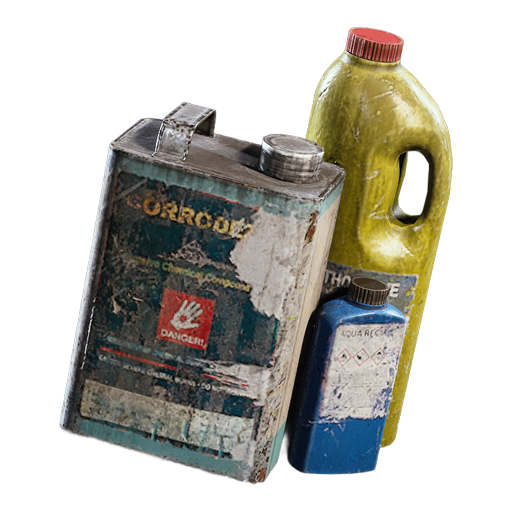
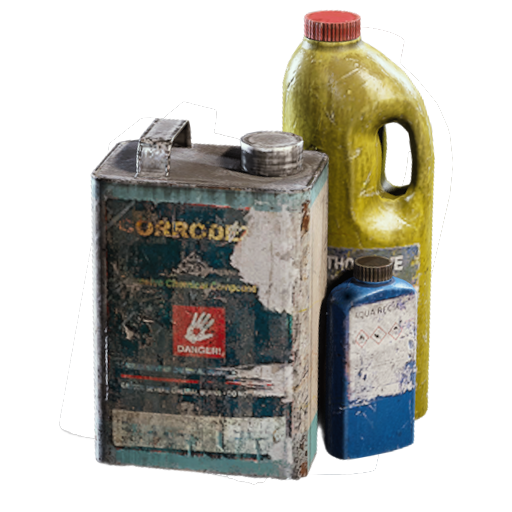
Slight page restructuring, add redo button, edit some item images, add some missing recipes.

diff --git a/templates/index.html b/templates/index.html
@@ -570,8 +570,8 @@
 </head>
 <body>
     <div class="container">
-        <h1>🛠 Arc Raiders Recipe Calculator</h1>
-        <p class="subtitle">Select items to see the base resources needed to craft them</p>
+        <h1>Arc Raiders Recipe Calculator</h1>
+        <!-- <p class="subtitle">Select items to see the base resources needed to craft them</p> -->
 
         <div class="main-content">
             <!-- Item Selection Panel -->
@@ -613,14 +613,15 @@
 
             <!-- Required Resources Panel -->
             <div class="panel" id="resultsPanel">
-                <div class="panel-header">
-                    <h2>Required Resources</h2>
-                    <div style="display: flex; gap: 10px; align-items: center;">
-                        <label class="auto-break-checkbox">
-                            <input type="checkbox" id="autoBreakCheckbox" onchange="toggleAutoBreak()">
-                            <span>Automatically break down all</span>
-                        </label>
+                <h2>Required Resources</h2>
+                <div style="display: flex; gap: 10px; align-items: center; margin-bottom: 15px; justify-content: space-between;">
+                    <label class="auto-break-checkbox">
+                        <input type="checkbox" id="autoBreakCheckbox" onchange="toggleAutoBreak()">
+                        <span>Automatically break down all</span>
+                    </label>
+                    <div style="display: flex; gap: 8px;">
                         <button class="clear-all-btn" id="undoBtn" style="display: none;">↶ Undo</button>
+                        <button class="clear-all-btn" id="redoBtn" style="display: none;">↷ Redo</button>
                     </div>
                 </div>
                 <div id="results" class="results"></div>
@@ -906,12 +907,13 @@
             applyFilters();
         });
 
-        // Add item to selection
+        // Add item to selection (or remove if already selected)
         function addItem(itemId) {
             if (selectedItems[itemId]) {
-                // Item already selected - do nothing
-                return;
+                // Item already selected - remove it
+                delete selectedItems[itemId];
             } else {
+                // Add new item with quantity 1
                 selectedItems[itemId] = 1;
             }
             applyFilters(); // Refresh display to show quantity controls
@@ -949,15 +951,16 @@
         let currentResources = {};
         // Track history for undo functionality
         let resourceHistory = [];
+        // Track redo history
+        let redoHistory = [];
 
-        // Update undo button visibility
-        function updateUndoButton() {
+        // Update undo/redo button visibility
+        function updateUndoRedoButtons() {
             const undoBtn = document.getElementById('undoBtn');
-            if (resourceHistory.length > 0) {
-                undoBtn.style.display = 'block';
-            } else {
-                undoBtn.style.display = 'none';
-            }
+            const redoBtn = document.getElementById('redoBtn');
+            
+            undoBtn.style.display = resourceHistory.length > 0 ? 'block' : 'none';
+            redoBtn.style.display = redoHistory.length > 0 ? 'block' : 'none';
         }
 
         // Display results
@@ -966,9 +969,9 @@
             const resultsContainer = document.getElementById('results');
 
             if (resources.length === 0) {
-                resultsContainer.innerHTML = '<div class="empty-state">No items selected. Select items from the left to see required resources.</div>';
+                resultsContainer.innerHTML = '<div class="empty-state"></div>';
                 currentResources = {};
-                updateUndoButton();
+                updateUndoRedoButtons();
                 return;
             }
 
@@ -981,7 +984,8 @@
             // Clear history when starting fresh calculation
             if (clearHistory) {
                 resourceHistory = [];
-                updateUndoButton();
+                redoHistory = [];
+                updateUndoRedoButtons();
             }
 
             const html = resources.map(resource => {
@@ -1033,7 +1037,8 @@
                     stateCopy[id] = JSON.parse(JSON.stringify(res)); // Deep copy
                 }
                 resourceHistory.push(stateCopy);
-                updateUndoButton();
+                redoHistory = []; // Clear redo history on new action
+                updateUndoRedoButtons();
 
                 // Fetch the recipe for this item
                 const response = await fetch('/api/expand', {
@@ -1076,9 +1081,39 @@
         function undoExpansion() {
             if (resourceHistory.length === 0) return;
 
+            // Save current state to redo history
+            const currentCopy = {};
+            for (const [id, res] of Object.entries(currentResources)) {
+                currentCopy[id] = JSON.parse(JSON.stringify(res));
+            }
+            redoHistory.push(currentCopy);
+
             // Restore the previous state
             currentResources = resourceHistory.pop();
-            updateUndoButton();
+            updateUndoRedoButtons();
+
+            // Convert map back to sorted array and redisplay
+            const resourcesArray = Object.values(currentResources).sort((a, b) =>
+                a.name.localeCompare(b.name)
+            );
+
+            displayResults(resourcesArray);
+        }
+
+        // Redo the last undone expansion
+        function redoExpansion() {
+            if (redoHistory.length === 0) return;
+
+            // Save current state to undo history
+            const currentCopy = {};
+            for (const [id, res] of Object.entries(currentResources)) {
+                currentCopy[id] = JSON.parse(JSON.stringify(res));
+            }
+            resourceHistory.push(currentCopy);
+
+            // Restore the next state
+            currentResources = redoHistory.pop();
+            updateUndoRedoButtons();
 
             // Convert map back to sorted array and redisplay
             const resourcesArray = Object.values(currentResources).sort((a, b) =>
@@ -1157,8 +1192,9 @@
             displayResults(resourcesArray, true);
         }
 
-        // Attach undo button event handler
+        // Attach undo and redo button event handlers
         document.getElementById('undoBtn').addEventListener('click', undoExpansion);
+        document.getElementById('redoBtn').addEventListener('click', redoExpansion);
 
         // Initialize
         loadItems();
